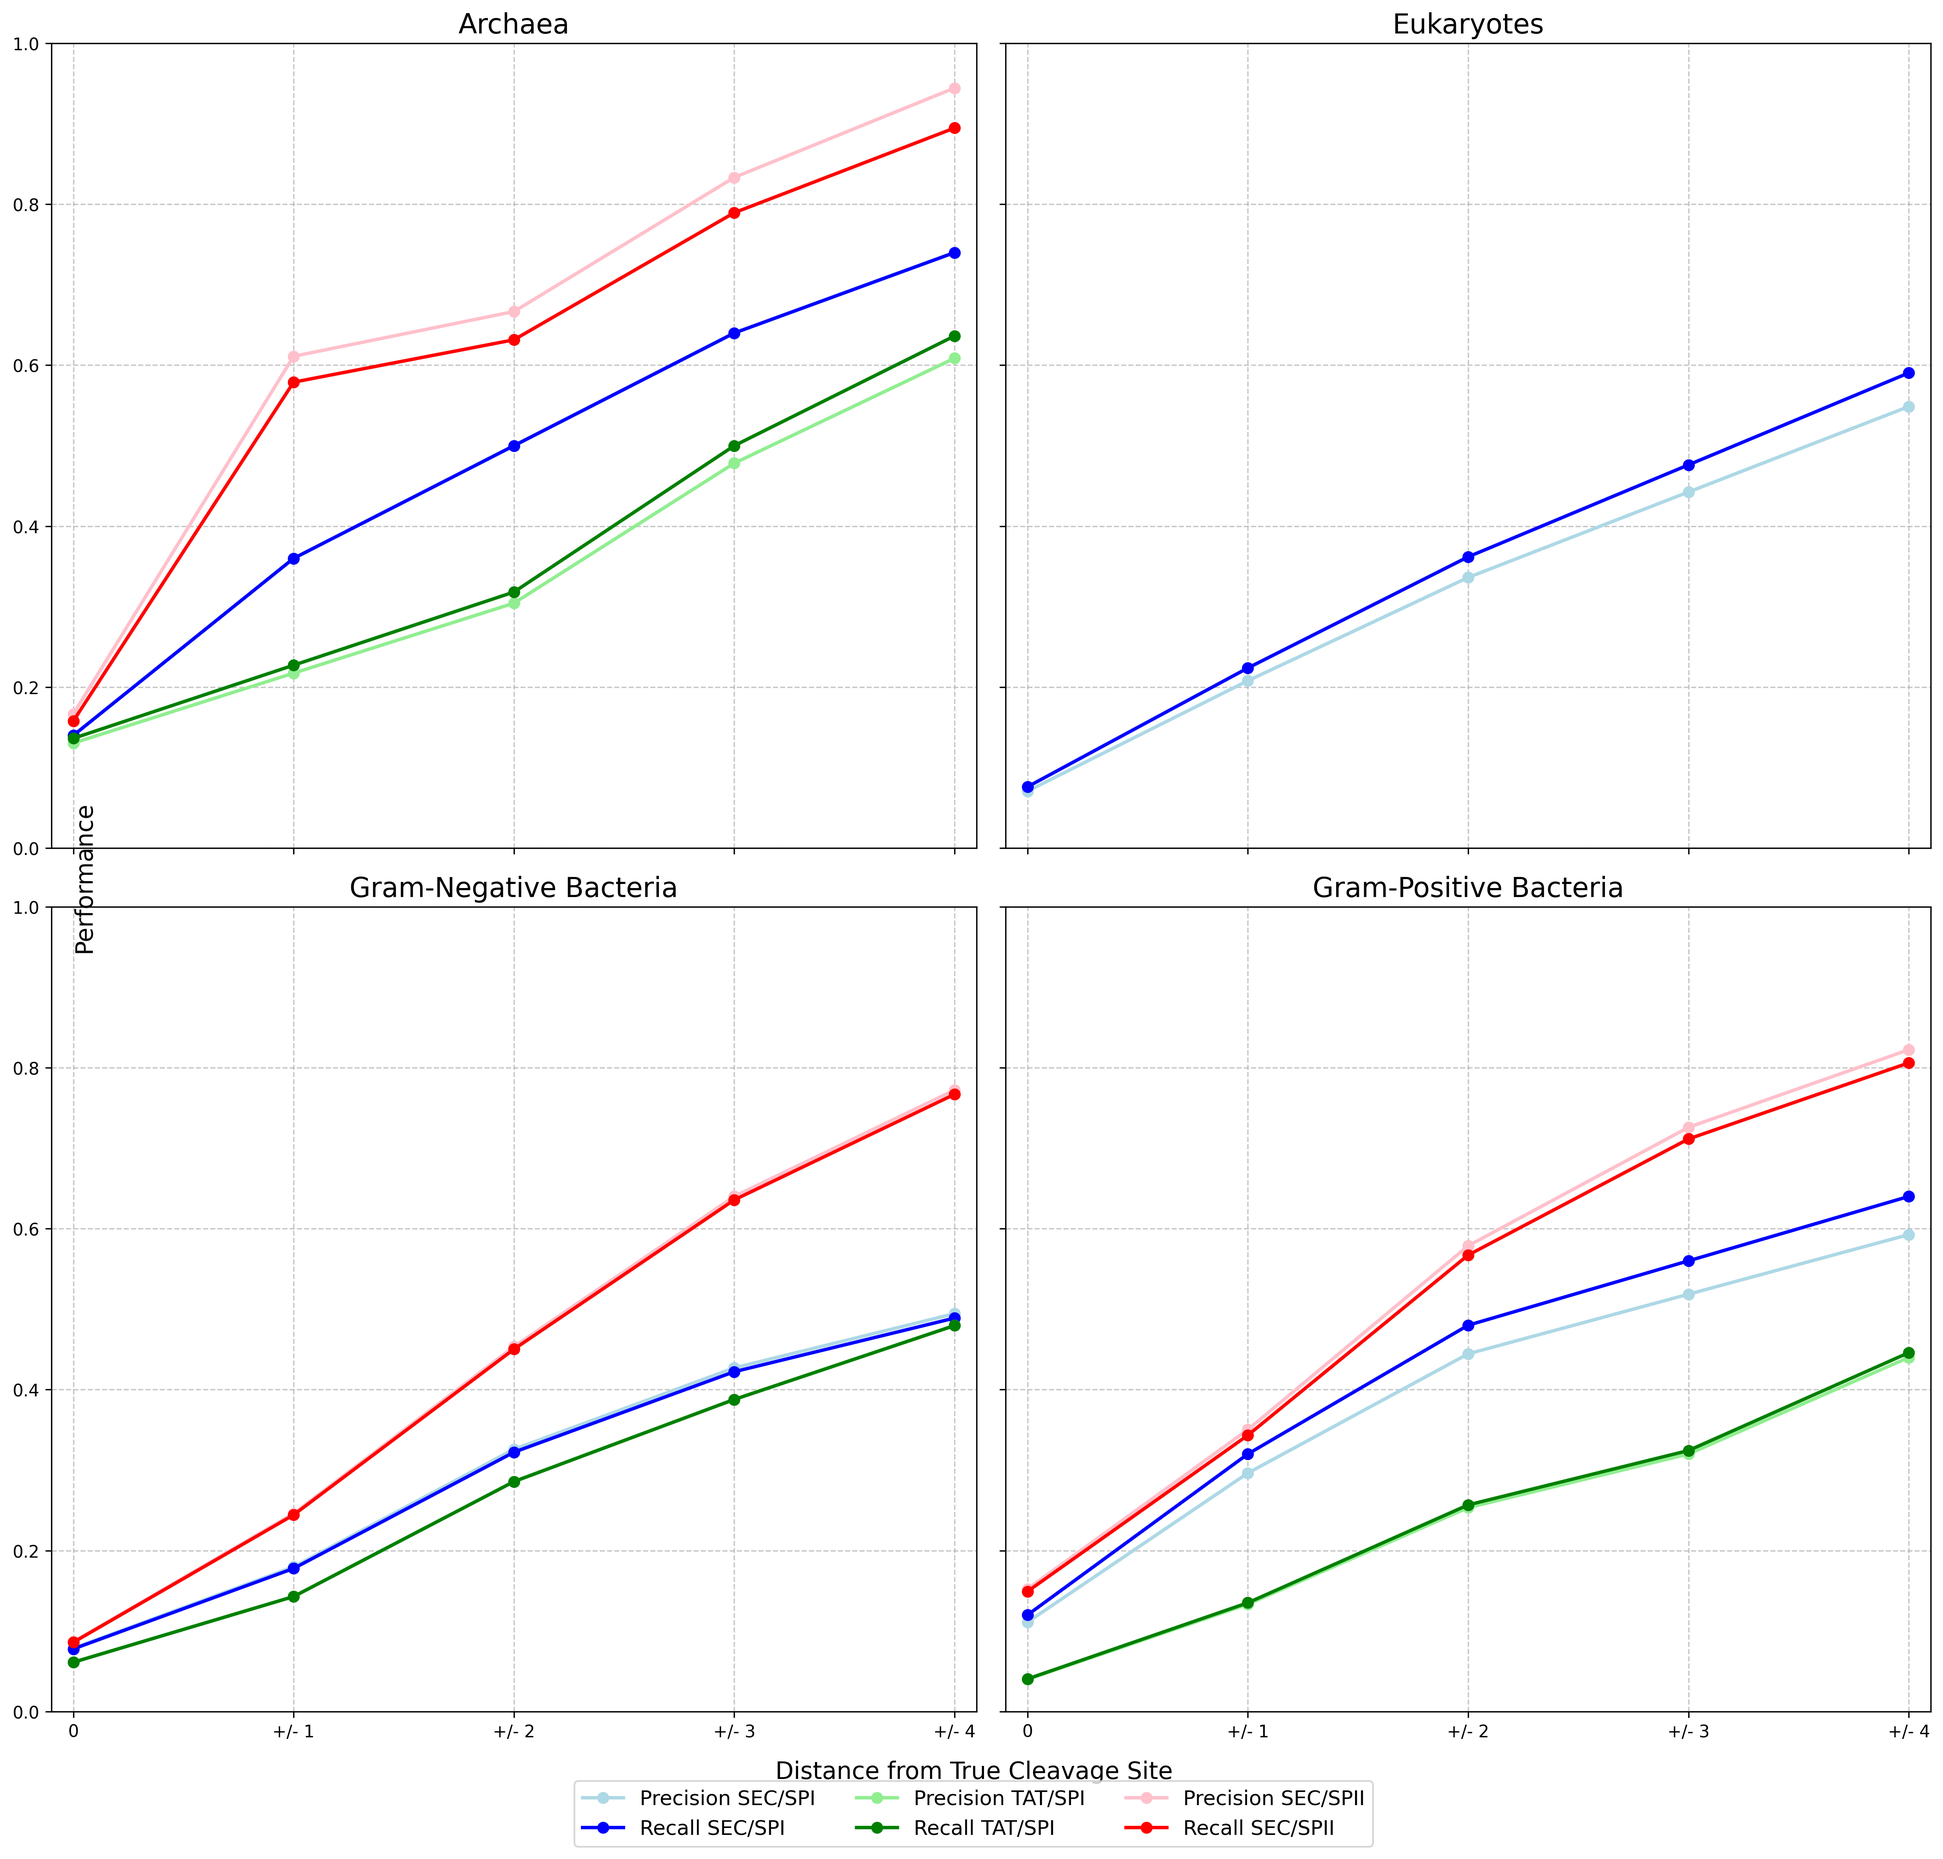
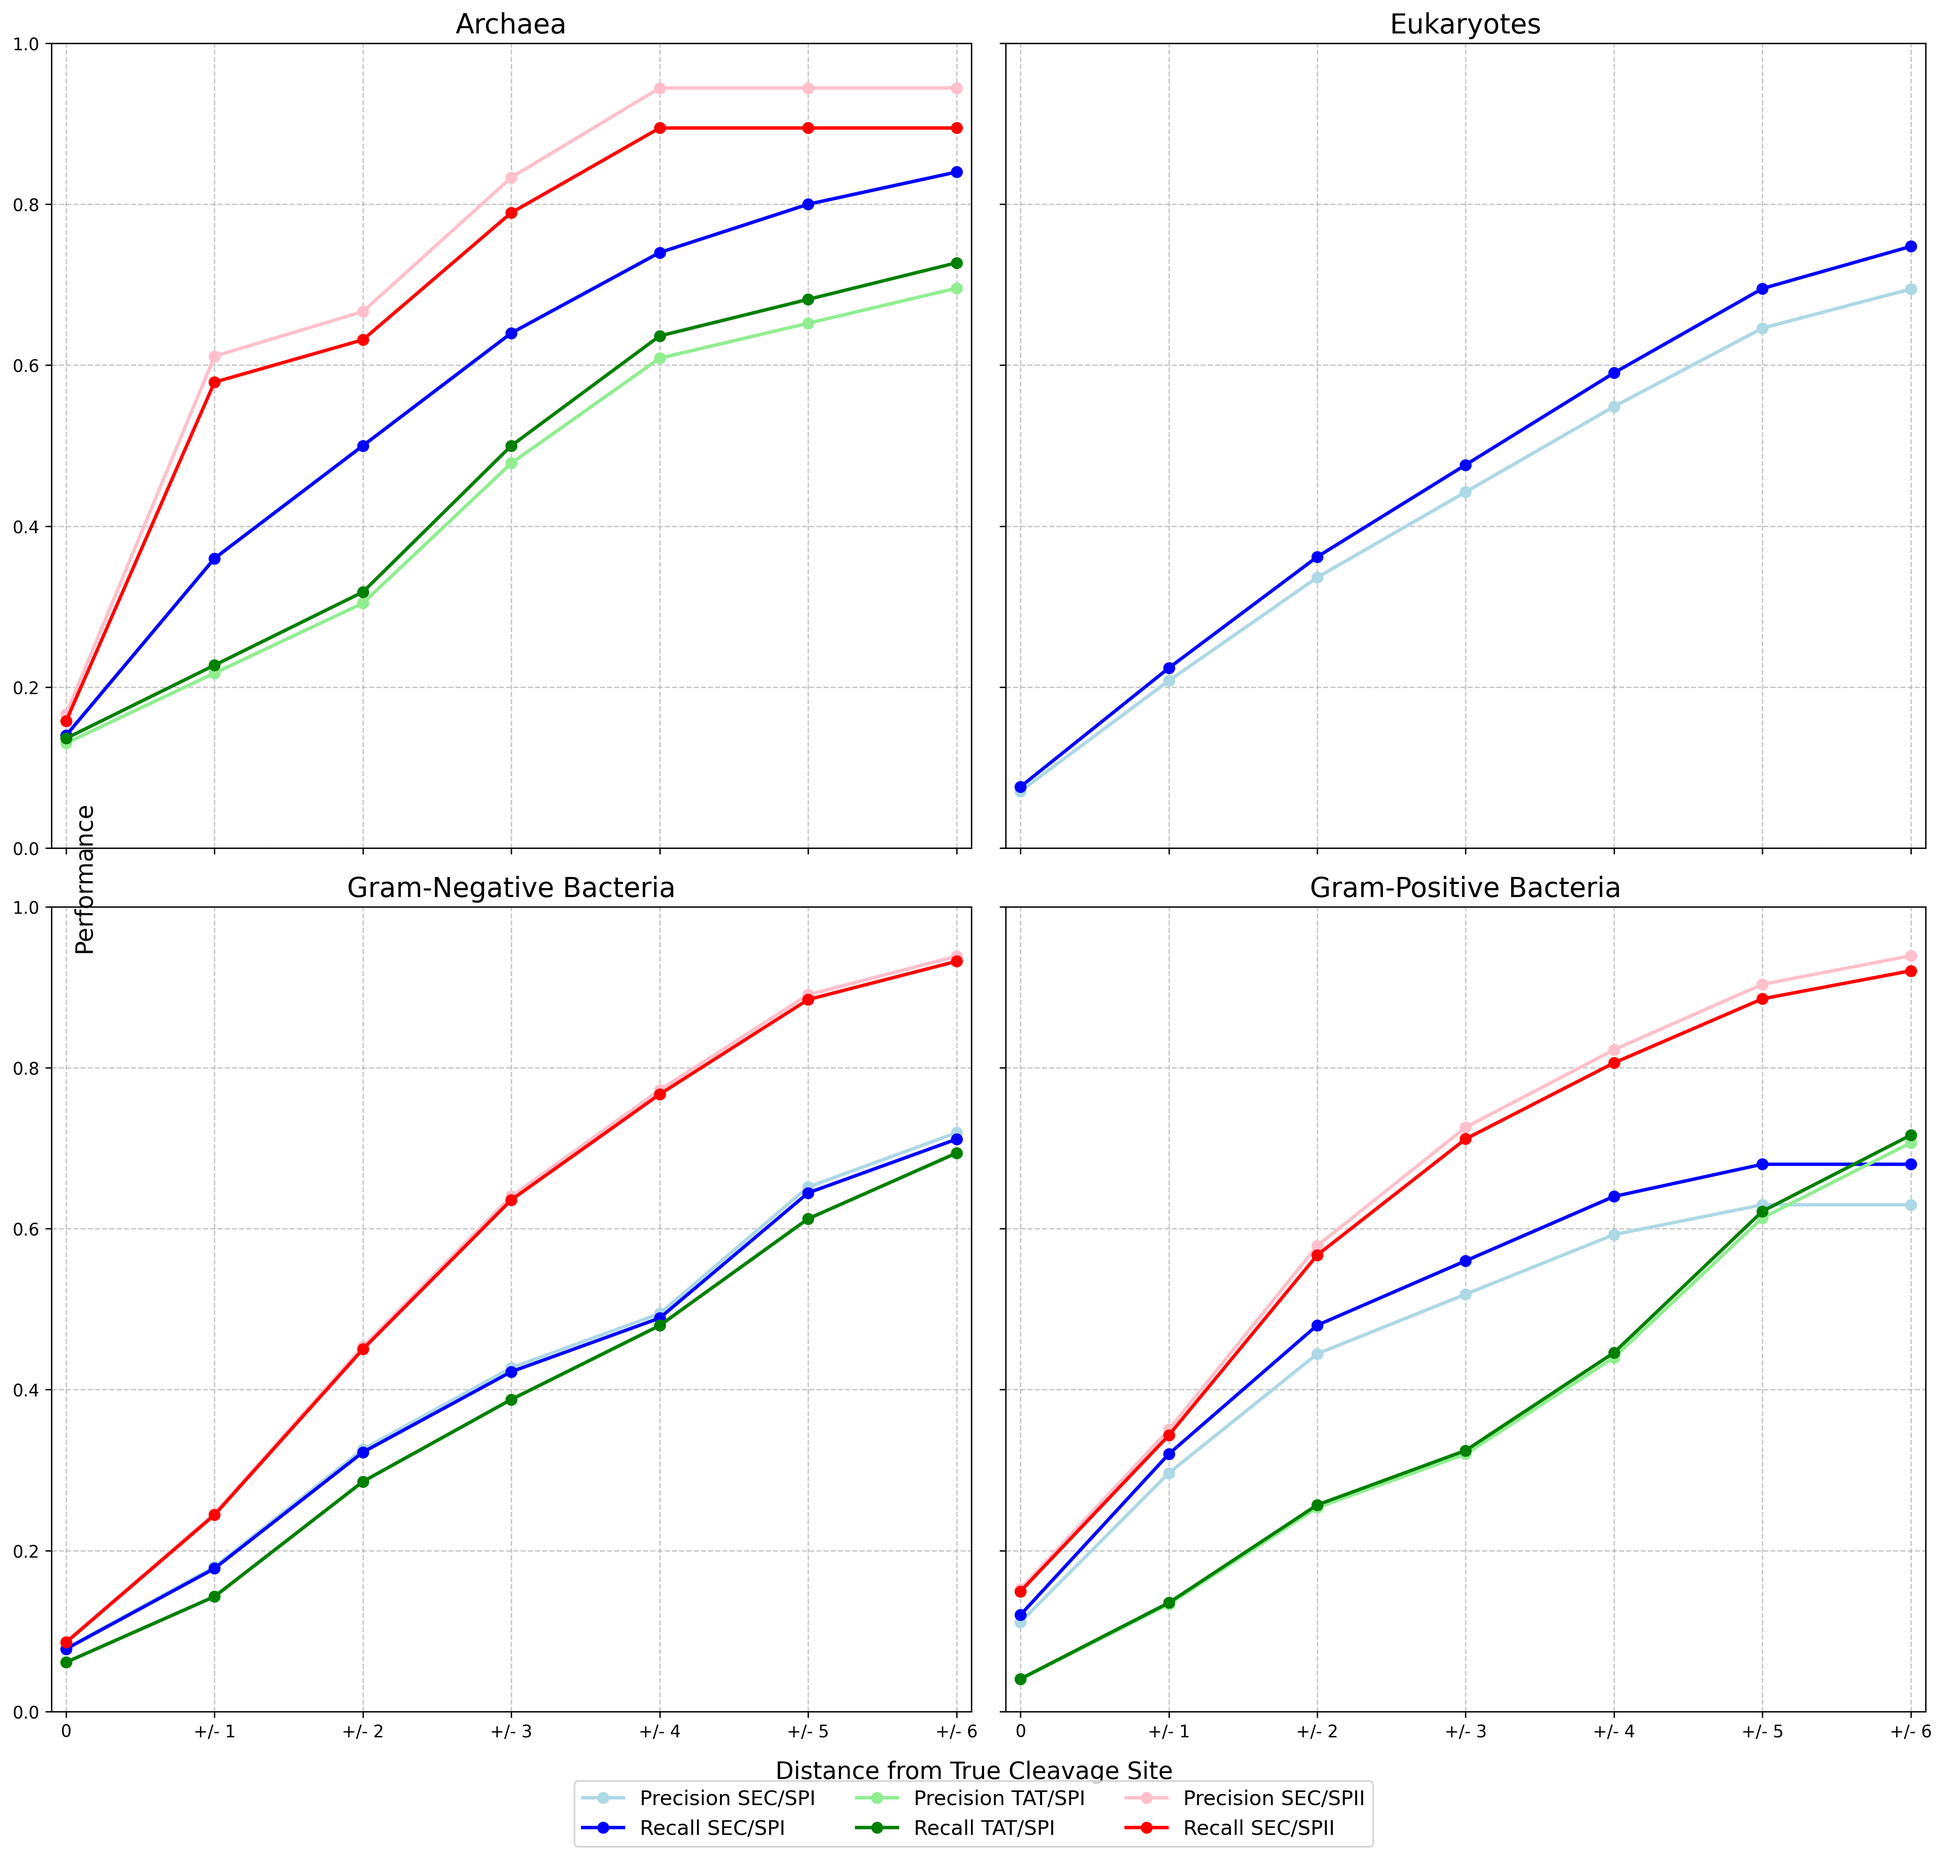
fix bencmark

diff --git a/app/benchmark.py b/app/benchmark.py
@@ -67,7 +67,7 @@ def calculate_cleavage_site_metrics_by_type(
     true_cleavage,
     pred_cleavage,
     kingdoms,
-    max_distance=4,
+    max_distance=6,
 ):
     """
     Calculate precision and recall for cleavage site prediction by SP type and kingdom
@@ -391,10 +391,20 @@ def benchmark_model(benchmark_file, model_path, output_dir="results", max_length
     pred_sp_class_idx = predictions["sp_class_indices"]
     pred_cleavage = predictions["cleavage_positions"]
 
-    # Calculate classification metrics
+    # Calculate classification metrics  
     print("\nCalculating metrics...")
     cm = confusion_matrix(true_has_sp, pred_has_sp)
-    mcc = matthews_corrcoef(true_has_sp, pred_has_sp)
+
+    # Calculate MCC1 and MCC2
+    mcc_metrics = calculate_mcc1_mcc2(
+        true_has_sp,
+        pred_has_sp,
+        true_sp_class_idx,
+        pred_sp_class_idx,
+        kingdom_indices
+    )
+
+    
 
     # Calculate SP class accuracy (only for sequences with SP)
     sp_mask = true_has_sp == 1
@@ -418,7 +428,9 @@ def benchmark_model(benchmark_file, model_path, output_dir="results", max_length
 
     # Print results
     print("\nBenchmark Results:")
-    print(f"Matthews Correlation Coefficient: {mcc:.4f}")
+    
+    # Print MCC results
+    print_mcc_results(mcc_metrics, kingdom_indices, true_has_sp, pred_has_sp)
     print(f"SP Class Accuracy (for sequences with SP): {sp_class_accuracy:.4f}")
     print("\nConfusion Matrix:")
     print(cm)
@@ -464,7 +476,6 @@ def benchmark_model(benchmark_file, model_path, output_dir="results", max_length
 
     # Return metrics
     return {
-        "mcc": mcc,
         "confusion_matrix": cm,
         "sp_class_accuracy": sp_class_accuracy,
         "cleavage_metrics_by_type": cs_metrics_by_type,
@@ -509,3 +520,140 @@ if __name__ == "__main__":
             output_dir=args.output_dir,
             max_length=args.max_length,
         )
+
+
+def calculate_mcc1_mcc2(true_has_sp, pred_has_sp, true_sp_class_idx, pred_sp_class_idx, kingdoms):
+    """
+    Calculate MCC1 and MCC2 metrics for each kingdom as a whole
+    
+    Args:
+        true_has_sp: True SP presence (binary)
+        pred_has_sp: Predicted SP presence (binary)
+        true_sp_class_idx: True SP class indices
+        pred_sp_classes: Predicted SP class indices
+        kingdoms: Kingdom indices for each sequence
+        
+    Returns:
+        Dictionary with MCC1 and MCC2 values for each kingdom
+    """
+    # Initialize result dictionaries
+    mcc1_by_kingdom = {}
+    mcc2_by_kingdom = {}
+    
+    # For each kingdom
+    for kingdom_idx in range(4):  # 0=Archaea, 1=Eukarya, 2=Gram-negative, 3=Gram-positive
+        # Filter sequences for this kingdom
+        kingdom_mask = np.array(kingdoms) == kingdom_idx
+        kingdom_indices = np.where(kingdom_mask)[0]
+        
+        if len(kingdom_indices) == 0:
+            continue
+            
+        # Extract kingdom-specific data
+        k_true_has_sp = true_has_sp[kingdom_mask]
+        k_pred_has_sp = pred_has_sp[kingdom_mask]
+        k_true_sp_idx = true_sp_class_idx[kingdom_mask]
+        k_pred_sp_idx = pred_sp_class_idx[kingdom_mask]
+        
+        # MCC1: Sec/SPI vs (Globular + TM)
+        # For MCC1: Only consider sequences that are Sec/SPI (true_sp_idx == 0) or non-SP
+        mcc1_mask = np.zeros_like(k_true_has_sp, dtype=bool)
+        for i in range(len(k_true_has_sp)):
+            # Include SP sequences that are Sec/SPI
+            if k_true_has_sp[i] == 1 and k_true_sp_idx[i] == 0:
+                mcc1_mask[i] = True
+            # Include all non-SP sequences
+            elif k_true_has_sp[i] == 0:
+                mcc1_mask[i] = True
+        
+        # If we have enough samples for valid MCC calculation
+        if np.sum(mcc1_mask) > 0 and np.any(k_true_has_sp[mcc1_mask] == 1) and np.any(k_true_has_sp[mcc1_mask] == 0):
+            # Binary true and predicted labels for Sec/SPI vs non-SP
+            mcc1_true_binary = np.zeros(np.sum(mcc1_mask), dtype=int)
+            mcc1_pred_binary = np.zeros(np.sum(mcc1_mask), dtype=int)
+            
+            # Set 1 for Sec/SPI, 0 for non-SP
+            mcc1_idx = 0
+            for i in range(len(k_true_has_sp)):
+                if mcc1_mask[i]:
+                    # True is 1 if it's Sec/SPI, 0 otherwise
+                    mcc1_true_binary[mcc1_idx] = 1 if (k_true_has_sp[i] == 1 and k_true_sp_idx[i] == 0) else 0
+                    # Pred is 1 if it's predicted as Sec/SPI, 0 otherwise
+                    mcc1_pred_binary[mcc1_idx] = 1 if (k_pred_has_sp[i] == 1 and k_pred_sp_idx[i] == 0) else 0
+                    mcc1_idx += 1
+            
+            # Calculate MCC1
+            mcc1 = matthews_corrcoef(mcc1_true_binary, mcc1_pred_binary)
+            mcc1_by_kingdom[kingdom_idx] = mcc1
+        
+        # MCC2: Sec/SPI vs (other SP types + non-SP)
+        # For MCC2: Consider all sequences
+        if len(k_true_has_sp) > 0 and np.any(k_true_has_sp == 1) and np.any(k_true_has_sp == 0):
+            # Binary true and predicted labels for Sec/SPI vs others
+            mcc2_true_binary = np.zeros_like(k_true_has_sp, dtype=int)
+            mcc2_pred_binary = np.zeros_like(k_pred_has_sp, dtype=int)
+            
+            # Set 1 for Sec/SPI, 0 for other SP types and non-SP
+            for i in range(len(k_true_has_sp)):
+                # True is 1 if it's Sec/SPI, 0 otherwise
+                mcc2_true_binary[i] = 1 if (k_true_has_sp[i] == 1 and k_true_sp_idx[i] == 0) else 0
+                # Pred is 1 if it's predicted as Sec/SPI, 0 otherwise
+                mcc2_pred_binary[i] = 1 if (k_pred_has_sp[i] == 1 and k_pred_sp_idx[i] == 0) else 0
+            
+            # Calculate MCC2
+            mcc2 = matthews_corrcoef(mcc2_true_binary, mcc2_pred_binary)
+            mcc2_by_kingdom[kingdom_idx] = mcc2
+    
+    return {"mcc1": mcc1_by_kingdom, "mcc2": mcc2_by_kingdom}
+
+
+def print_mcc_results(mcc_metrics, kingdom_indices, true_has_sp, pred_has_sp):
+    """
+    Print MCC1 and MCC2 metrics for each kingdom in a formatted table
+    
+    Args:
+        mcc_metrics: Dictionary with MCC1 and MCC2 values from calculate_mcc1_mcc2
+        kingdom_indices: Array with kingdom indices for each sequence
+        true_has_sp: True SP presence (binary)
+        pred_has_sp: Predicted SP presence (binary)
+    """
+    # Calculate regular MCC for Eukarya
+    eukarya_mask = kingdom_indices == 1  # 1 = Eukarya
+    if np.any(eukarya_mask):
+        eukarya_mcc = matthews_corrcoef(true_has_sp[eukarya_mask], pred_has_sp[eukarya_mask])
+    else:
+        eukarya_mcc = float('nan')
+    
+    # Print header
+    print("\nMCC Results:")
+    print("-" * 80)
+    print(f"{'Kingdom':<15} | {'MCC¹':<10} | {'MCC²':<10} | {'MCC':<10}")
+    print("-" * 80)
+    
+    # Print results for each kingdom
+    kingdom_names = {
+        0: "Archaea",
+        1: "Eukarya",
+        2: "Gram-negative",
+        3: "Gram-positive"
+    }
+    
+    for kingdom_idx in range(4):
+        kingdom_name = kingdom_names[kingdom_idx]
+        mcc1 = mcc_metrics["mcc1"].get(kingdom_idx, float('nan'))
+        mcc2 = mcc_metrics["mcc2"].get(kingdom_idx, float('nan'))
+        
+        # For Eukarya, use the regular MCC
+        if kingdom_idx == 1:
+            mcc = eukarya_mcc
+            mcc1_str = "-"
+            mcc2_str = "-"
+            mcc_str = f"{mcc:.4f}" if not np.isnan(mcc) else "N/A"
+        else:
+            mcc1_str = f"{mcc1:.4f}" if not np.isnan(mcc1) else "N/A"
+            mcc2_str = f"{mcc2:.4f}" if not np.isnan(mcc2) else "N/A"
+            mcc_str = "-"
+        
+        print(f"{kingdom_name:<15} | {mcc1_str:<10} | {mcc2_str:<10} | {mcc_str:<10}")
+    
+    print("-" * 80)
